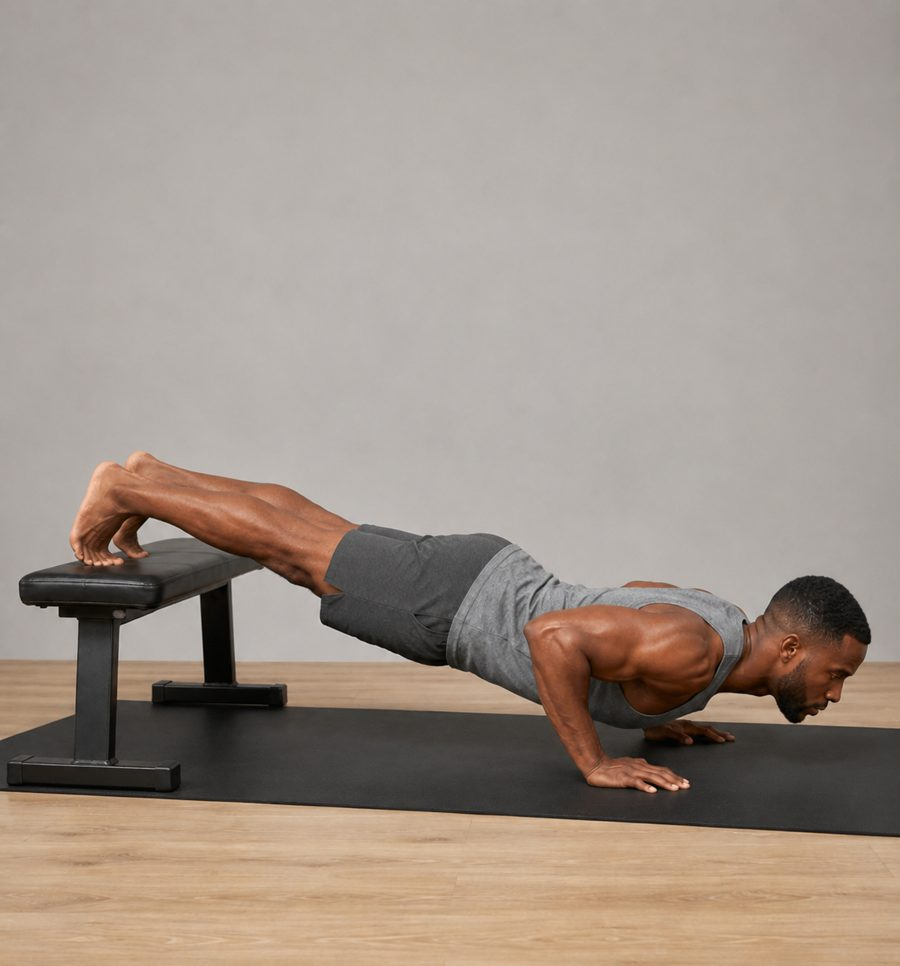
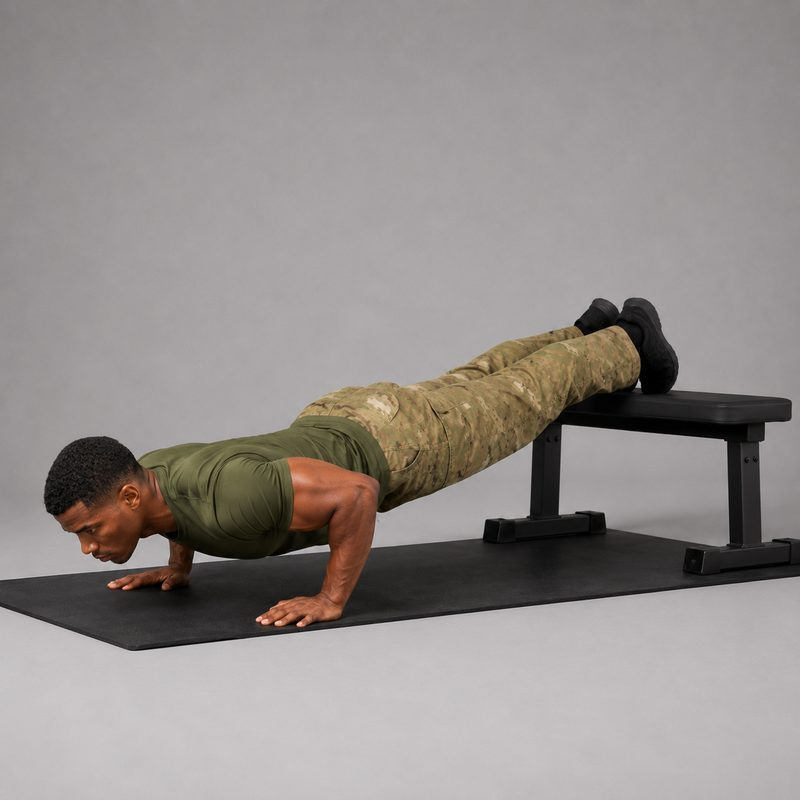
Convert Batch 5 (push/press library) to military fatigues (#70)
Regenerate the 10 chest + shoulder push/press exercise photos into the
military-fatigues standard (OD-green tee, camo trousers, same athlete):
incline, decline, diamond, archer, spider-man and superman push-ups, plus
pike push-up, elevated pike push-up, wall handstand hold and wall handstand
push-up.

Bump SW cache to v61 so clients refetch the overwritten images.

Claude-Session: https://claude.ai/code/session_012pSaigMvmiPH3HEpchsLug

diff --git a/sw.js b/sw.js
@@ -1,5 +1,5 @@
 /* CoreForge — offline service worker */
-const CACHE = 'coreforge-v60';
+const CACHE = 'coreforge-v61';
 const SHELL = ['./', './index.html', './manifest.webmanifest', './icon-192.png', './icon-512.png', './hero.jpg',
   './ex-kneeplank.jpg','./ex-plank.jpg','./ex-longplank.jpg','./ex-planktap.jpg',
   './ex-tuckhollow.jpg','./ex-hollow.jpg','./ex-hollowrock.jpg',
